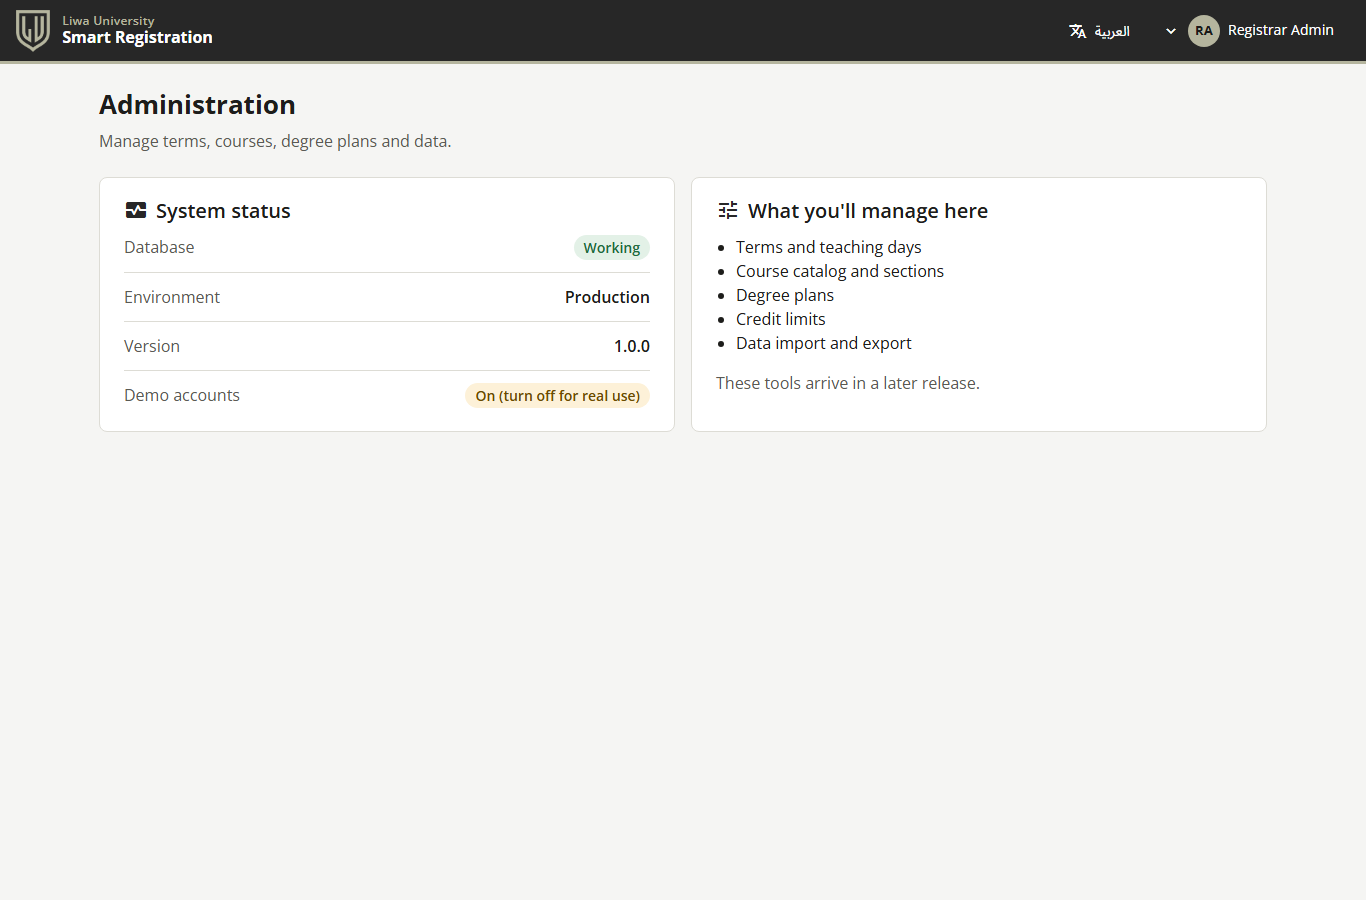
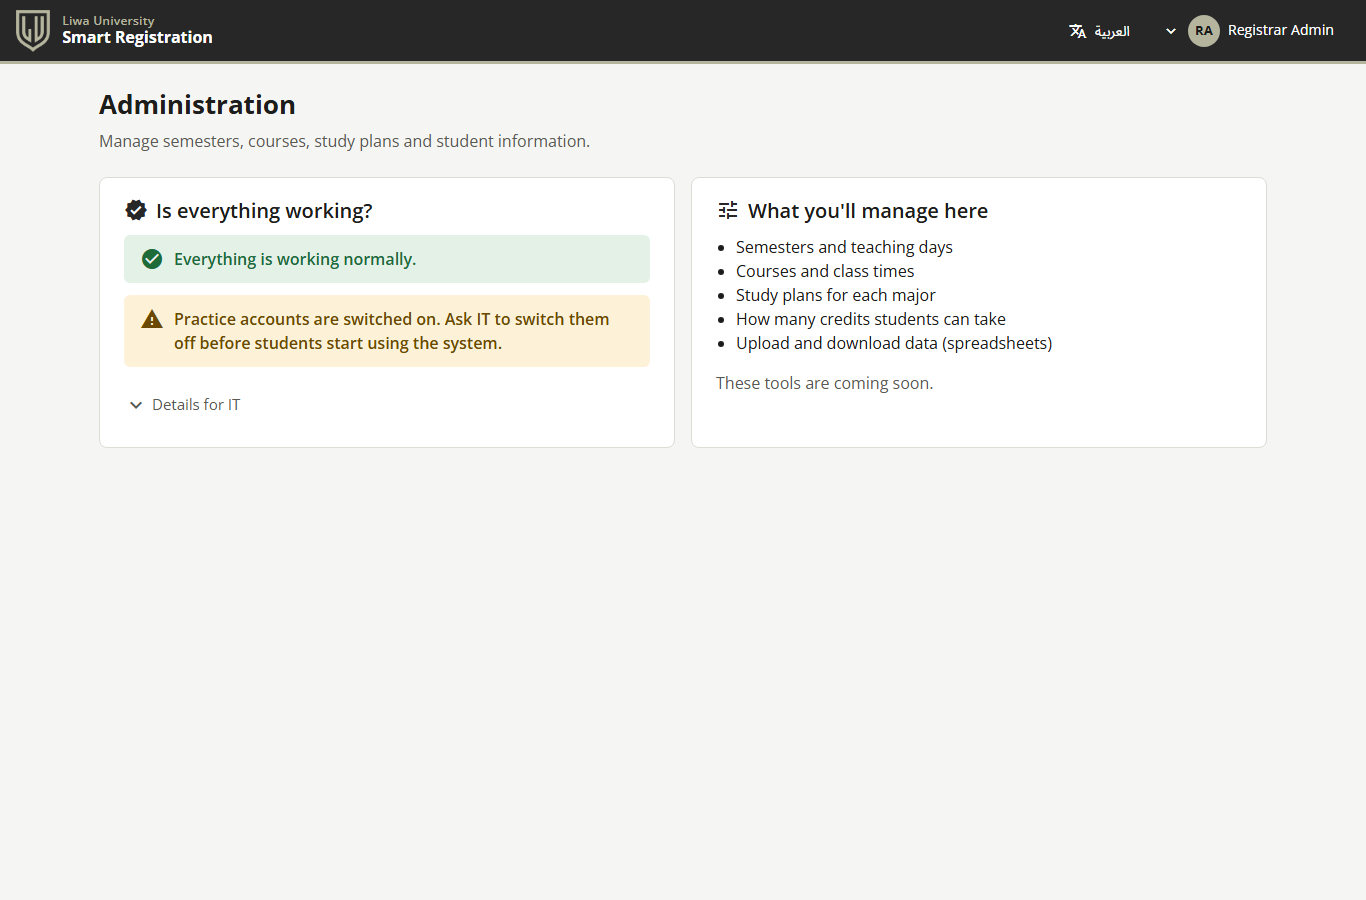
Use plain language for non-technical users
Admin status card answers "Is everything working?" in one sentence,
warns when practice accounts are on, and folds database, environment
and version under "Details for IT". Reword admin areas, drop required
asterisks on sign-in, clarify the username hint and the too-many-tries
message, in English and Arabic. Add an admin screenshot with the
details opened (32 screenshots, 0 axe violations).

Changed region(s): [[0.0922, 0.2178, 0.4919, 0.4667], [0.5227, 0.2489, 0.7687, 0.4356], [0.123, 0.1556, 0.4305, 0.1867]]

diff --git a/docs/screenshots/M1/index.html b/docs/screenshots/M1/index.html
@@ -16,7 +16,7 @@
   .bad { color: #b3261e; }
 </style></head><body>
 <header><h1>M1 — screens</h1>
-<p>28 screenshots · 7 screens × English/Arabic × desktop/phone · generated 2026-11-09 06:36 UTC from http://127.0.0.1:8088</p>
+<p>32 screenshots · 8 screens × English/Arabic × desktop/phone · generated 2026-11-09 06:54 UTC from http://127.0.0.1:8088</p>
 <p>Accessibility (axe-core, WCAG 2.1 A/AA): <b class="">0 violation(s)</b> · horizontal scrolling: <b class="">0 screen(s)</b> · details in <a href="a11y-report.json">a11y-report.json</a></p></header>
 <section><h2>Sign in</h2><div class="row"><figure class="desktop"><a href="login.en.desktop.png"><img src="login.en.desktop.png" alt="Sign in — EN desktop" loading="lazy"></a>
           <figcaption>English · desktop · axe ✓</figcaption></figure><figure class="phone"><a href="login.en.phone.png"><img src="login.en.phone.png" alt="Sign in — EN phone" loading="lazy"></a>
@@ -42,6 +42,11 @@
           <figcaption>English · desktop · axe ✓</figcaption></figure><figure class="phone"><a href="admin-home.en.phone.png"><img src="admin-home.en.phone.png" alt="Admin home — EN phone" loading="lazy"></a>
           <figcaption>English · phone · axe ✓</figcaption></figure><figure class="desktop"><a href="admin-home.ar.desktop.png"><img src="admin-home.ar.desktop.png" alt="Admin home — AR desktop" loading="lazy"></a>
           <figcaption>العربية · desktop · axe ✓</figcaption></figure><figure class="phone"><a href="admin-home.ar.phone.png"><img src="admin-home.ar.phone.png" alt="Admin home — AR phone" loading="lazy"></a>
+          <figcaption>العربية · phone · axe ✓</figcaption></figure></div></section>
+<section><h2>Admin home — &quot;Details for IT&quot; opened</h2><div class="row"><figure class="desktop"><a href="admin-details.en.desktop.png"><img src="admin-details.en.desktop.png" alt="Admin home — &quot;Details for IT&quot; opened — EN desktop" loading="lazy"></a>
+          <figcaption>English · desktop · axe ✓</figcaption></figure><figure class="phone"><a href="admin-details.en.phone.png"><img src="admin-details.en.phone.png" alt="Admin home — &quot;Details for IT&quot; opened — EN phone" loading="lazy"></a>
+          <figcaption>English · phone · axe ✓</figcaption></figure><figure class="desktop"><a href="admin-details.ar.desktop.png"><img src="admin-details.ar.desktop.png" alt="Admin home — &quot;Details for IT&quot; opened — AR desktop" loading="lazy"></a>
+          <figcaption>العربية · desktop · axe ✓</figcaption></figure><figure class="phone"><a href="admin-details.ar.phone.png"><img src="admin-details.ar.phone.png" alt="Admin home — &quot;Details for IT&quot; opened — AR phone" loading="lazy"></a>
           <figcaption>العربية · phone · axe ✓</figcaption></figure></div></section>
 <section><h2>Not allowed (student opens an admin page)</h2><div class="row"><figure class="desktop"><a href="forbidden.en.desktop.png"><img src="forbidden.en.desktop.png" alt="Not allowed (student opens an admin page) — EN desktop" loading="lazy"></a>
           <figcaption>English · desktop · axe ✓</figcaption></figure><figure class="phone"><a href="forbidden.en.phone.png"><img src="forbidden.en.phone.png" alt="Not allowed (student opens an admin page) — EN phone" loading="lazy"></a>

diff --git a/web/src/app/features/admin/admin-home.page.ts b/web/src/app/features/admin/admin-home.page.ts
@@ -24,11 +24,32 @@ interface SystemStatus {
     <div class="grid">
       <section class="liwa-card" aria-labelledby="status-heading" [attr.aria-busy]="status.isLoading()">
         <h2 id="status-heading" class="card-title">
-          <mat-icon aria-hidden="true">monitor_heart</mat-icon>
+          <mat-icon aria-hidden="true">verified</mat-icon>
           {{ 'admin.home.systemStatus' | transloco }}
         </h2>
         @if (status.hasValue()) {
           @let s = status.value();
+          @let dbOk = s.database === 'Healthy';
+          <!-- One plain-language answer first; technical details only for IT, folded away. -->
+          @if (dbOk) {
+            <p class="summary summary-ok" role="status">
+              <mat-icon aria-hidden="true">check_circle</mat-icon>
+              {{ 'admin.home.allGood' | transloco }}
+            </p>
+          } @else {
+            <p class="summary summary-bad" role="alert">
+              <mat-icon aria-hidden="true">error</mat-icon>
+              {{ 'admin.home.dbDown' | transloco }}
+            </p>
+          }
+          @if (s.demoSeedEnabled) {
+            <p class="summary summary-warn">
+              <mat-icon aria-hidden="true">warning</mat-icon>
+              {{ 'admin.home.demoWarning' | transloco }}
+            </p>
+          }
+          <details class="details">
+            <summary><mat-icon aria-hidden="true">expand_more</mat-icon>{{ 'admin.home.details' | transloco }}</summary>
           <dl class="status-list">
             <div>
               <dt>{{ 'admin.home.database' | transloco }}</dt>
@@ -55,6 +76,7 @@ interface SystemStatus {
               </dd>
             </div>
           </dl>
+          </details>
         } @else if (status.error()) {
           <p class="error" role="alert">{{ 'admin.home.statusError' | transloco }}</p>
         } @else {

diff --git a/web/src/app/features/admin/admin-home.page.scss b/web/src/app/features/admin/admin-home.page.scss
@@ -1,7 +1,68 @@
+.summary {
+  display: flex;
+  align-items: flex-start;
+  gap: 0.625rem;
+  margin: 0 0 0.75rem;
+  padding: 0.75rem 1rem;
+  border-radius: 6px;
+  font-weight: 600;
+
+  mat-icon {
+    flex: none;
+  }
+}
+
+.summary-ok {
+  background: #e3f1e7;
+  color: var(--liwa-success);
+}
+
+.summary-bad {
+  background: #fcebea;
+  color: var(--liwa-danger);
+}
+
+.summary-warn {
+  background: #fdf1d8;
+  color: #6b4a00;
+}
+
+.details {
+  margin-top: 1rem;
+
+  summary {
+    cursor: pointer;
+    min-height: 44px; // touch target
+    display: flex;
+    align-items: center;
+    gap: 0.25rem;
+    color: var(--liwa-text-muted);
+    font-size: 0.9375rem;
+    list-style: none; // the arrow icon replaces the browser marker
+
+    &::-webkit-details-marker {
+      display: none;
+    }
+
+    mat-icon {
+      transition: transform 150ms ease;
+    }
+  }
+
+  &[open] summary {
+    margin-bottom: 0.5rem;
+
+    mat-icon {
+      transform: rotate(180deg);
+    }
+  }
+}
+
 .status-list {
   display: grid;
   gap: 0.75rem;
   margin: 0;
+  font-size: 0.9375rem;
 
   > div {
     display: flex;

diff --git a/web/src/app/features/login/login.page.html b/web/src/app/features/login/login.page.html
@@ -20,7 +20,7 @@
     }
 
     <form [formGroup]="form" (ngSubmit)="submit()" novalidate>
-      <mat-form-field appearance="outline" class="field">
+      <mat-form-field appearance="outline" class="field" hideRequiredMarker subscriptSizing="dynamic">
         <mat-label>{{ 'login.username' | transloco }}</mat-label>
         <input #usernameInput matInput formControlName="username" autocomplete="username" autocapitalize="none" spellcheck="false" dir="ltr" required />
         <mat-hint>{{ 'login.usernameHint' | transloco }}</mat-hint>
@@ -29,7 +29,7 @@
         }
       </mat-form-field>
 
-      <mat-form-field appearance="outline" class="field">
+      <mat-form-field appearance="outline" class="field" hideRequiredMarker>
         <mat-label>{{ 'login.password' | transloco }}</mat-label>
         <input matInput [type]="showPassword() ? 'text' : 'password'" formControlName="password" autocomplete="current-password" dir="ltr" required />
         <button

diff --git a/CHANGELOG.md b/CHANGELOG.md
@@ -7,6 +7,7 @@ All notable changes are listed here, newest first, grouped by milestone.
 ### Changed
 - **Re-branded to match Liwa University's real identity:** charcoal `#272727` and sage `#b5b59e` (from the official logo) replace indigo and gold. A deep olive `#6b6a52` is the accent and focus colour on light backgrounds. Material palettes were regenerated from the new colours.
 - **Official logo:** the sign-in page shows the full bilingual lockup on a charcoal band (as on Liwa's Blackboard sign-in), and the top bar shows the shield mark. The favicon and touch icon are now the shield on charcoal. The placeholder `logo.svg` was removed.
+- **Plain language for non-technical users (all roles):** the admin "System status" card is now "Is everything working?", with one plain sentence ("Everything is working normally", or what to do if not) and a warning when practice accounts are on. Database, environment and version are folded under "Details for IT". Admin areas are reworded ("Courses and class times", "How many credits students can take", "Upload and download data (spreadsheets)"). Sign-in fields no longer show asterisks, the username hint explains what to type, and the "too many tries" message is friendlier. English and Arabic.
 - The Docker sign-in rate limit can now be set with `SIGNIN_PERMITS_PER_MINUTE` (default 10), so screenshots can be taken against the real production build.
 
 ### Fixed
